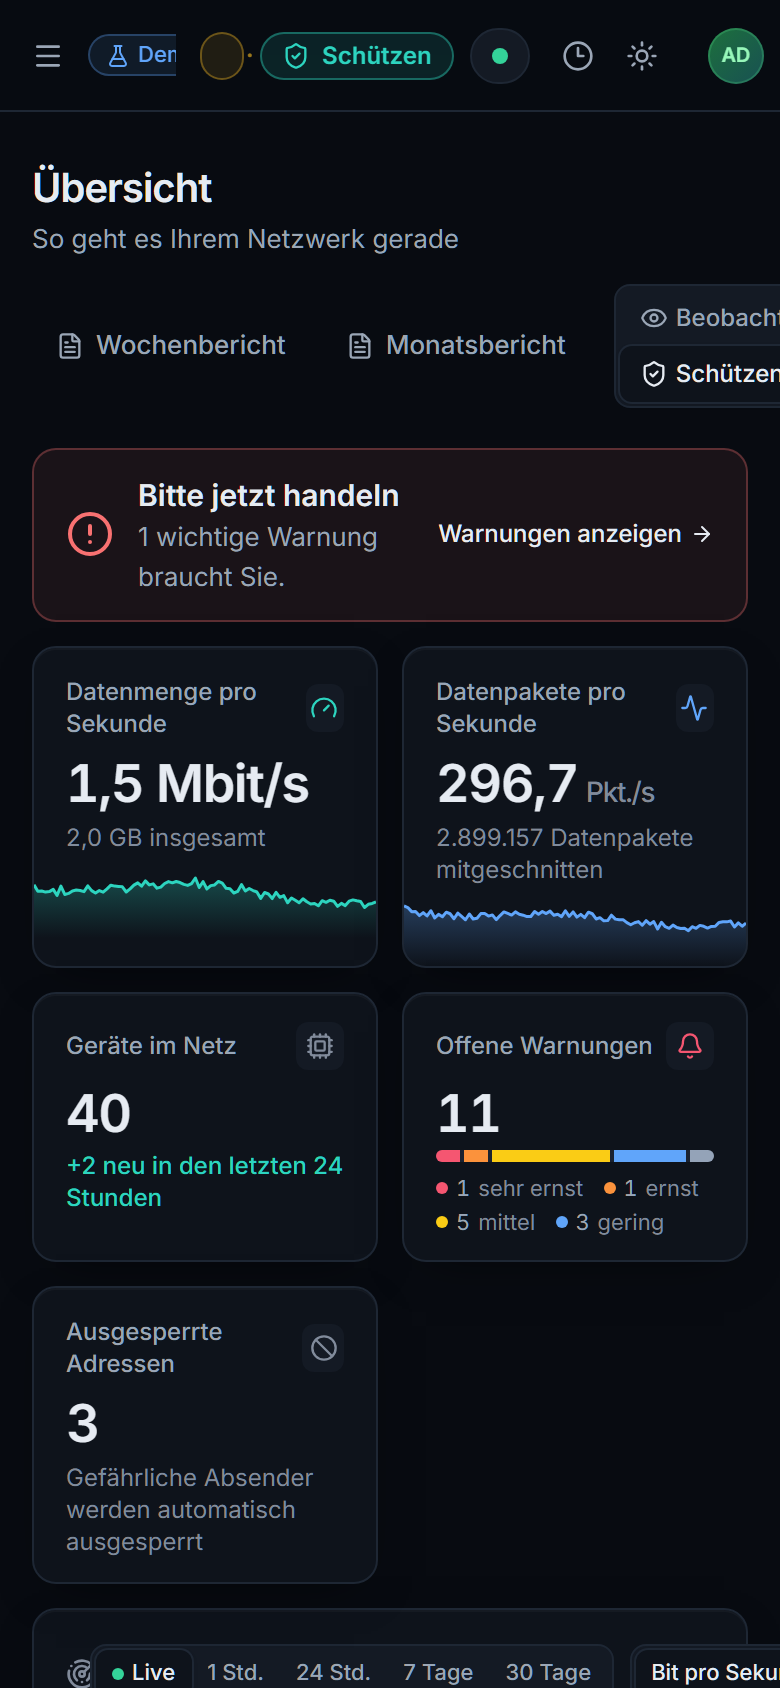
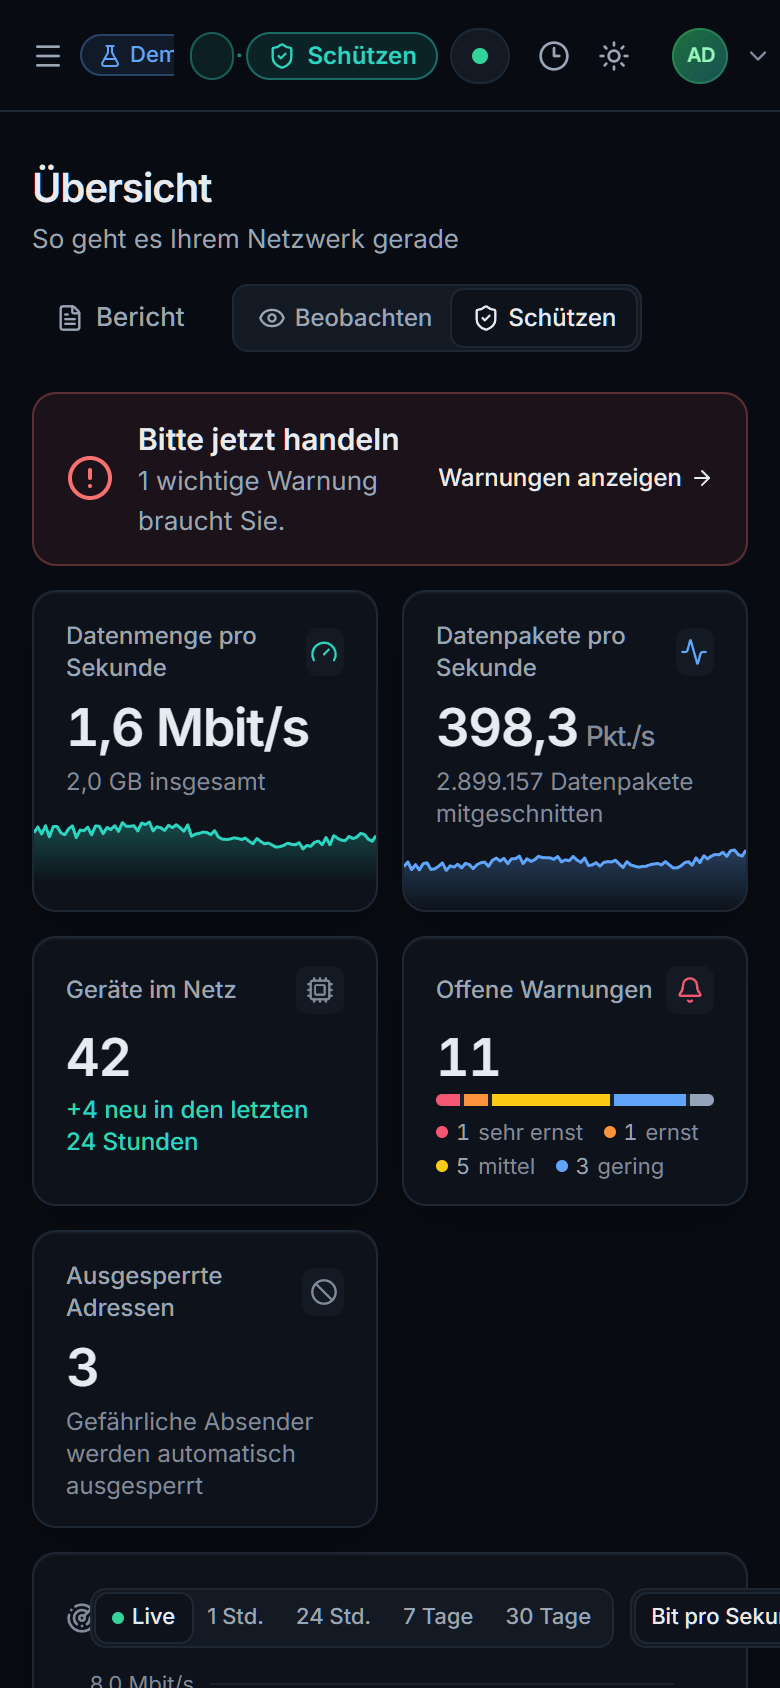
docs: add English README, refresh screenshots for 1.0.1
Screenshots now come from the 1.0.1 mock with documentation IP addresses,
in German and English (2x). Removes the unused devices screenshot and
mentions the Linux package and the appliance preview.

diff --git a/README.en.md b/README.en.md
@@ -1,0 +1,116 @@
+<div align="center">
+
+[Deutsch](README.md) · **English**
+
+<img src="assets/banner.svg" alt="Heimvo, the network guardian" width="100%">
+
+<br/>
+
+### Your network, finally easy to understand.
+
+Heimvo shows which devices are on your Wi-Fi, with names like **"Samsung Galaxy S26 Ultra"** instead of `192.168.178.37`.<br/>
+It reports unknown devices and attacks in plain language and can block them automatically. Everything runs locally on your PC, no cloud account.
+
+<br/>
+
+## [⬇ Download Heimvo for Windows](https://github.com/Reinert-Digital/heimvo-releases/releases/latest)
+
+<sub>Windows 10 and 11 (64-bit) · English and German · Free to use, try Pro for free</sub>
+
+<br/>
+
+<img src="assets/screenshot-overview-en.png" alt="Heimvo overview" width="100%">
+
+</div>
+
+---
+
+## What Heimvo does for you
+
+| 📱 Every device has a name | 🚨 Warnings in plain language | 🛡 Block with one click |
+|---|---|---|
+| `none-2` becomes **Amazon Echo**, `wpad.fritz.box` becomes **FRITZ!Box 6670**. Assign owner and room: "Anna's iPhone, living room". | An unknown device, a port scan or a program quietly sending data? Heimvo explains what happened and what you can do. | Block suspicious addresses right in Heimvo or let it block them automatically. Your router and your own devices are protected from that. |
+
+<img src="assets/screenshot-devices-drawer-en.png" alt="Device with model, owner and automatically detected type" width="100%">
+
+## Install in 3 steps
+
+1. **Download:** Open the [latest version](https://github.com/Reinert-Digital/heimvo-releases/releases/latest) and download `Heimvo-Setup-<version>.exe`.
+2. **Install:** Double-click the file. If **"Windows protected your PC"** appears, click **More info** and then **Run anyway** (explained [below](#why-does-windows-warn-me)). Confirm the User Account Control prompt with **Yes**.
+3. **Get started:** The assistant helps you install the free capture driver **Npcap** and creates your Heimvo account (password with at least 10 characters). Heimvo then opens and you sign in. From now on Heimvo runs in the background, also after a restart.
+
+### System requirements
+
+- Windows 10 or 11, 64-bit, an account with administrator rights
+- A PC that is on in your home network, ideally connected by cable
+- Npcap (free, the installer helps you download it)
+
+**Other platforms:** Every version also includes a Linux package (`.deb` for amd64/arm64, signed) and images for a dedicated Heimvo box on a Raspberry Pi 5 or an x86 mini PC. The box images are a preview: tested in a virtual machine, tests on real hardware are still running.
+
+## Why does Windows warn me?
+
+The installer is **not digitally signed yet**. That is why Microsoft SmartScreen does not know it and shows "Unknown publisher". Signing is in progress.
+
+**How to check that the file is genuine:** From the same version, also download `Heimvo-Setup-<version>.exe.sha256`. Then run this in PowerShell in your download folder:
+
+```powershell
+Get-FileHash .\Heimvo-Setup-x.y.z.exe -Algorithm SHA256
+```
+
+The `Hash` shown must match the text in the `.sha256` file. If it differs, do not run the file and download it again.
+
+## Free and Pro
+
+| | **Free** | **Pro** |
+|---|:---:|:---:|
+| Device list with name, type, owner and room | ✅ | ✅ |
+| Warnings in plain language, traffic light, network map | ✅ | ✅ |
+| Blocking by hand and automatically | ✅ | ✅ |
+| Notifications by email, Telegram, Teams, Slack or push | ✅ | ✅ |
+| Weekly and monthly report | | ✅ |
+| Family protection | | ✅ |
+| **Block** and **False alarm** right from the push notification | | ✅ |
+| Connection picture | | ✅ |
+
+## Your data stays with you
+
+- Heimvo runs **only on your PC**. There is no cloud account and no telemetry.
+- Heimvo cannot see the content of encrypted websites, only which service received how much data and when.
+- Heimvo honestly shows how much of the network it can see. On a normal PC that is mainly the devices and their announcements; for the full picture, a mirror port or gateway mode helps.
+
+<table>
+<tr>
+<td width="62%"><img src="assets/screenshot-alerts-en.png" alt="Warnings"></td>
+<td width="38%" align="center"><img src="assets/screenshot-mobile-en.png" alt="Heimvo on a phone" width="70%"></td>
+</tr>
+<tr>
+<td><sub>Warnings explain what happened.</sub></td>
+<td align="center"><sub>Also in your phone's browser.</sub></td>
+</tr>
+</table>
+
+## FAQ
+
+**Do I need new hardware?** No. A Windows PC in your home network is enough.
+
+**How do I update?** Download the new version and install it over the old one. Your settings and devices are kept.
+
+**Why is a device only called "Phone (Android)"?** Some devices do not reveal a name. Give it your own name in Heimvo; Heimvo never overwrites it.
+
+**May I monitor any network?** Only networks that belong to you or that you have permission to monitor.
+
+## Contact
+
+Questions, feedback or interest in Heimvo for your practice or office:
+**contact@reinert-digital.de**
+
+Found a bug? [Report it here](https://github.com/Reinert-Digital/heimvo-releases/issues/new/choose).
+Please report security issues confidentially, see [SECURITY.md](SECURITY.md).
+
+Release notes are attached to each [version](https://github.com/Reinert-Digital/heimvo-releases/releases).
+
+---
+
+<div align="center">
+<sub>Heimvo is a product of <a href="https://reinert-digital.de">Reinert Digital Solutions</a>, Düsseldorf, Germany · © 2026 · All rights reserved</sub>
+</div>

diff --git a/README.md b/README.md
@@ -1,5 +1,7 @@
 <div align="center">
 
+**Deutsch** · [English](README.en.md)
+
 <img src="assets/banner.svg" alt="Heimvo, der Netzwerkwächter" width="100%">
 
 <br/>
@@ -42,6 +44,8 @@ Es meldet fremde Geräte und Angriffe in Klartext und sperrt sie auf Wunsch auto
 - Windows 10 oder 11, 64-Bit, Konto mit Administratorrechten
 - Ein PC, der im Heimnetz läuft, am besten per LAN-Kabel
 - Npcap (kostenlos, der Installer hilft beim Herunterladen)
+
+**Weitere Plattformen:** In jeder Version liegen auch ein Linux-Paket (`.deb` für amd64/arm64, mit Signatur) und Images für eine eigene Heimvo-Box auf Raspberry Pi 5 oder x86-Mini-PC. Die Box-Images sind eine Vorschau: getestet in der virtuellen Maschine, Tests auf echter Hardware laufen noch.
 
 ## Warum warnt Windows?
 
